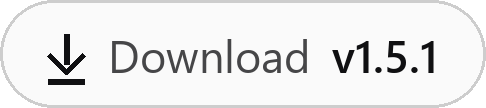
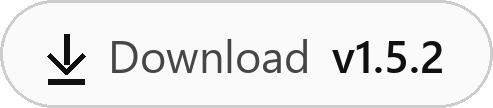
Release PlayBridge 1.5.2: variable refresh rate and the microphone in captures

Changed region(s): [[0.216, 0.3611, 0.8951, 0.6944], [0.0926, 0.3333, 0.1852, 0.6944], [0.1543, 0.75, 0.1852, 0.7778]]

diff --git a/README.md b/README.md
@@ -1,6 +1,6 @@
 <p align="center"><img src="docs/images/banner.png" alt="PlayBridge: your PS5 games, video and audio on your Windows PC" width="100%"></p>
 <p align="center">
-  <a href="https://github.com/ramalhoboss/PlayBridge/releases/latest"><img alt="Download v1.5.1" src="docs/images/badge-download.png" height="36"></a>
+  <a href="https://github.com/ramalhoboss/PlayBridge/releases/latest"><img alt="Download v1.5.2" src="docs/images/badge-download.png" height="36"></a>
   <img alt="Windows x64" src="docs/images/badge-windows.png" height="36">
   <img alt="PS5 firmware 13.60" src="docs/images/badge-ps5.png" height="36">
   <img alt="Up to 4K60" src="docs/images/badge-4k.png" height="36">
@@ -21,6 +21,13 @@ No HDMI capture card. No official Remote Play client or PSN Remote Play pairing.
 
 > Screenshots show the real application. The Games page above shows a real PS5 library: covers and music come from your own console when you connect, and none are included in the download. The game pictures further down are PS5 captures saved with PlayBridge; the one on the Live page was played back to the app on the PC to take the screenshot. PlayBridge is in English; the console's own language remains whatever you selected on the PS5.
 
+## New in v1.5.2
+
+- **Variable refresh rate:** on a screen with G-Sync, FreeSync or Adaptive-Sync, as on many gaming laptops, each frame is shown the moment it is due, so 60 fps plays evenly at 144 Hz without switching the screen to 60 Hz. Turn on **Settings → Picture → Variable refresh rate**, shown where the graphics driver supports it, restart PlayBridge and play in full screen (**F11**). It is off by default, because a screen without variable refresh can show tearing.
+- **Your voice in captures:** **Settings → Captures → Microphone** mixes your microphone with the game's sound in recordings, instant replays and Go live, with its own volume. **F7** turns it on and off, and the status line shows MIC. You do not hear yourself in PlayBridge.
+
+The payload is unchanged from v1.5.0.
+
 ## New in v1.5.1
 
 - **Sound on every PC:** PlayBridge opens even when the PC's sound output mixes at a rate other than the PS5's 48 kHz, which stopped v1.5.0 from opening on some PCs. When no output opens, the picture still streams and the status line says why.
@@ -29,21 +36,7 @@ No HDMI capture card. No official Remote Play client or PSN Remote Play pairing.
 - **The screen stays on** while a session runs, so Windows no longer turns it off while you play with the controller.
 - **Clearer stutter reports:** the stats and exported diagnostics say why a frame was late and whether the PS5 is reached over Wi-Fi or a cable.
 
-The payload is unchanged from v1.5.0.
-
-## New in v1.5.0
-
-- **Closing a game no longer ends the stream:** when you close a game from the PS5 menu, the console stops every capture while its close screen is up. The payload now waits for the console and opens the capture again, as the PS5's own Remote Play does, so the session carries on after a pause of about a second. It held through every game close tried on the owner's PS5, at 4K and at 1080p.
-- **Faster first connect:** a connection that reached the PS5 before the payload was ready could leave PlayBridge waiting for about half a minute. The payload now keeps listening, and PlayBridge keeps trying for 10 seconds. On the owner's PS5 it connected in about a second.
-- **Captures from your PS5:** **Media → From your PS5** lists the screenshots and clips the console saved, and copies the new ones, or the ones you select, to your PC.
-- **Go live:** **Settings → Streaming** sends the console's own video and sound to Twitch, YouTube, any RTMP server or OBS on this PC, without encoding them again (**Ctrl+B**). The stream key is kept encrypted for your Windows user and never appears in messages, logs or diagnostics.
-- **Send a payload:** **Settings → Console** sends any ELF you choose to the loader your exploit opened on port 9021, after asking, and keeps your five most recent.
-- **Small window:** **Ctrl+M**, or the button below the picture, keeps the game in a small window above your other windows.
-- **New Settings and Media:** frosted panels over PlayBridge's own blue and violet picture, in columns that use the width of the window, with larger text. Settings, Media and the Live waiting screen share that one picture.
-- **Graphics card check:** **Settings → Picture** names the card that decodes the stream and the largest profile it can decode.
-- **Fixes:** on the Games page, every tile in view is drawn before the large game pictures, so tiles no longer stay blank while the row moves. The GPU video output no longer starts black or enlarged, which happened in about one start in four.
-
-The payload changed: automatic mode sends the new one, and manual users should load the v1.5.0 ELF. Earlier versions are described in the [changelog](CHANGELOG.md).
+The payload is unchanged from v1.5.0. Earlier versions are described in the [changelog](CHANGELOG.md).
 
 ## Download
 
@@ -51,14 +44,14 @@ The payload changed: automatic mode sends the new one, and manual users should l
 
 | File | What it contains |
 |---|---|
-| [PlayBridge.exe](https://github.com/ramalhoboss/PlayBridge/releases/download/v1.5.1/PlayBridge.exe) | Portable Windows application, including Python dependencies and the embedded ELF. |
-| [PlayBridge.elf](https://github.com/ramalhoboss/PlayBridge/releases/download/v1.5.1/PlayBridge.elf) | Standalone PS5 payload for manual loading. |
-| [PlayBridge-Windows-v1.5.1.zip](https://github.com/ramalhoboss/PlayBridge/releases/download/v1.5.1/PlayBridge-Windows-v1.5.1.zip) | Windows EXE and quick-start instructions. |
-| [PlayBridge-Payload-v1.5.1.zip](https://github.com/ramalhoboss/PlayBridge/releases/download/v1.5.1/PlayBridge-Payload-v1.5.1.zip) | ELF and manual-mode instructions. |
-| [PlayBridge-Complete-v1.5.1.zip](https://github.com/ramalhoboss/PlayBridge/releases/download/v1.5.1/PlayBridge-Complete-v1.5.1.zip) | Both files, quick-start instructions and component notices. |
-| [Third-party-licenses.zip](https://github.com/ramalhoboss/PlayBridge/releases/download/v1.5.1/Third-party-licenses.zip) | Component notices for standalone downloads. |
-| [PlayBridge-Source-v1.5.1.zip](https://github.com/ramalhoboss/PlayBridge/releases/download/v1.5.1/PlayBridge-Source-v1.5.1.zip) | Application and payload source, assets, tests and build instructions. |
-| [SHA256SUMS.txt](https://github.com/ramalhoboss/PlayBridge/releases/download/v1.5.1/SHA256SUMS.txt) | Checksums for the release downloads. |
+| [PlayBridge.exe](https://github.com/ramalhoboss/PlayBridge/releases/download/v1.5.2/PlayBridge.exe) | Portable Windows application, including Python dependencies and the embedded ELF. |
+| [PlayBridge.elf](https://github.com/ramalhoboss/PlayBridge/releases/download/v1.5.2/PlayBridge.elf) | Standalone PS5 payload for manual loading. |
+| [PlayBridge-Windows-v1.5.2.zip](https://github.com/ramalhoboss/PlayBridge/releases/download/v1.5.2/PlayBridge-Windows-v1.5.2.zip) | Windows EXE and quick-start instructions. |
+| [PlayBridge-Payload-v1.5.2.zip](https://github.com/ramalhoboss/PlayBridge/releases/download/v1.5.2/PlayBridge-Payload-v1.5.2.zip) | ELF and manual-mode instructions. |
+| [PlayBridge-Complete-v1.5.2.zip](https://github.com/ramalhoboss/PlayBridge/releases/download/v1.5.2/PlayBridge-Complete-v1.5.2.zip) | Both files, quick-start instructions and component notices. |
+| [Third-party-licenses.zip](https://github.com/ramalhoboss/PlayBridge/releases/download/v1.5.2/Third-party-licenses.zip) | Component notices for standalone downloads. |
+| [PlayBridge-Source-v1.5.2.zip](https://github.com/ramalhoboss/PlayBridge/releases/download/v1.5.2/PlayBridge-Source-v1.5.2.zip) | Application and payload source, assets, tests and build instructions. |
+| [SHA256SUMS.txt](https://github.com/ramalhoboss/PlayBridge/releases/download/v1.5.2/SHA256SUMS.txt) | Checksums for the release downloads. |
 
 Download the release assets above to run the application. To inspect or build it, browse [app/](app/), [payload/](payload/) and [tools/](tools/), or download the source archive. GitHub's source archives contain source files, not the Windows EXE.
 
@@ -146,6 +139,7 @@ A 1080p PC monitor shows a 4K stream scaled down to its own pixels. Screenshots 
 | Camera icon / **F8** | Save a PNG at the stream's full size. Window bars and controls are not included. |
 | Record icon / **F9** | Start or stop an MP4 with console audio, without re-encoding. |
 | Replay icon / **F10** | Save the instant replay as an MP4. |
+| **F7** | Turn your microphone on or off in recordings, instant replays and Go live (**Settings → Captures → Microphone**). |
 | Folder icon / **Media** / **Ctrl+L** | Open your captures. |
 | Small window icon / **Ctrl+M** | Keep the game in a small window above your other windows. Press again to return. |
 | Go live icon / **Ctrl+B** | Start or end a broadcast with the settings in **Settings → Streaming**. |
@@ -213,7 +207,7 @@ The standalone ELF waits for one viewer per execution. After ending a manual ses
 | Console status | The game in front, CPU and SoC temperature, and whether a console found on the network is resting. |
 | Power | Rest mode, soft reset (close and relaunch the game), and reboot and turn off (not yet tested on a console). Each asks first. |
 | Graphics card | Settings names the card that decodes the stream and asks it which stream sizes it can decode. |
-| Presentation | **Direct3D 11** by default: the GPU decodes the video, converts its colour, scales it and presents it, with optional sharpening and optional AMD FSR 1 upscaling when the screen is larger than the stream. Windows **GDI** remains as the automatic fallback and as a switch in Settings. Both show one frame per monitor refresh from a short queue, and skip frames rather than letting the delay grow. |
+| Presentation | **Direct3D 11** by default: the GPU decodes the video, converts its colour, scales it and presents it, with optional sharpening and optional AMD FSR 1 upscaling when the screen is larger than the stream. Windows **GDI** remains as the automatic fallback and as a switch in Settings. Both show one frame per monitor refresh from a short queue, and skip frames rather than letting the delay grow. With **Variable refresh rate** on, Direct3D 11 sends each frame at its own time to a G-Sync, FreeSync or Adaptive-Sync screen instead. |
 | Decoding | Separate from the network thread, so a slow decoder drops video until the next keyframe instead of stalling audio or the connection. Software decoding uses frame threads above 1080p. |
 | Audio buffering | Bounded PCM queue; if it exceeds approximately **60 ms**, it is trimmed toward **40 ms**. Above 1080p these limits are **160 ms** and **120 ms**. |
 | Window modes | Resizable window, fullscreen, centered image and preserved aspect ratio. Black bars can appear when the available area is not 16:9. |
@@ -223,6 +217,7 @@ The standalone ELF waits for one viewer per execution. After ending a manual ses
 | Screenshots | Native-source-size PNG with F8; UI controls and window bars are excluded. |
 | Recording | Packet-copy H.264/AAC MP4 with F9, bounded background writing and graceful stop/finalization. |
 | Instant replay | The last 30 s, 60 s or 2 minutes of the stream kept in PC memory (up to 1 GB) and saved as an MP4 with F10, without re-encoding. |
+| Microphone | Optional, off by default: your voice mixed with the console's sound in recordings, instant replays and Go live, with its own volume and F7 to turn it on and off. While it is on, the sound is encoded to AAC again; while it is off, the console's sound is copied untouched. |
 | Media | Photos and MP4 recordings with thumbnails, filters and paging, read in the background. **From your PS5** lists the console's own screenshots and clips and copies them to the PC. |
 | Go live | The console's H.264 and AAC copied, without encoding again, to Twitch, YouTube (RTMPS), any RTMP server, or OBS over UDP on this PC. The stream key is kept encrypted with Windows DPAPI. |
 | Game close | When the console stops the capture, for example while a game closes from its menu, the payload waits for it and opens the capture again, so the session continues after a short pause. |
@@ -330,7 +325,8 @@ These are **PC pipeline measurements**, not total HDMI-to-PC latency, controller
 - **One game at a time.** This is how the PS5 works: launching another game closes the one that is open.
 - **Closing a game pauses the picture** for about a second while the console's close screen is up.
 - **Go live has not yet been run on a real Twitch or YouTube broadcast.** A local listener on the PC saw it begin the RTMP and RTMPS connections.
-- **GPU output tested on one PC.** It needs Direct3D 11 video decoding; other GPUs and monitors above 60 Hz have not been tried. If it fails, PlayBridge falls back to GDI, and **Settings → Picture → GPU video output** turns it off.
+- **GPU output tested on two PCs:** a desktop with an AMD card and a 60 Hz monitor, and a laptop with an NVIDIA card and a 144 Hz screen. It needs Direct3D 11 video decoding. If it fails, PlayBridge falls back to GDI, and **Settings → Picture → GPU video output** turns it off.
+- **Variable refresh rate and the microphone are new.** Variable refresh was tried on one gaming laptop with a 144 Hz screen, and the microphone on that laptop's built-in microphone. A quiet microphone stays quiet in the mix: raise its level, or its boost, in Windows' sound settings.
 - **One viewer per payload execution.** Only one PlayBridge/legacy receiver session should run on the PC at once.
 - **Trusted local network.** No encrypted Internet relay, remote account service or authenticated stream transport is provided.
 - Automatic reconnect retries connection loss with 2/4/8-second backoff. It does not wake the PS5; recovery still requires the console and ELF loader to be available. Every rest-mode/HDMI scenario has not been validated.
@@ -370,6 +366,7 @@ Preferences, the game library and local diagnostic files are stored in <code>%LO
 
 ## Release history
 
+- **v1.5.2:** variable refresh rate for G-Sync, FreeSync and Adaptive-Sync screens, and your microphone in recordings, instant replays and Go live.
 - **v1.5.1:** sound on PCs whose output mixes at another rate, the NVIDIA or AMD card on laptops with two graphics cards, 144 and 165 Hz screens switched to a steady rate while a game streams, the screen kept on during a session, and clearer stutter reports.
 - **v1.5.0:** closing a game no longer ends the stream, a faster first connect, captures from the PS5, Go live, Send a payload, a small window, new Settings and Media pages, a graphics card check, and fixes for blank tiles and a black or enlarged GPU picture at start.
 - **v1.4.2:** optional AMD FSR 1 upscaling on the GPU video output, for screens larger than the stream.
